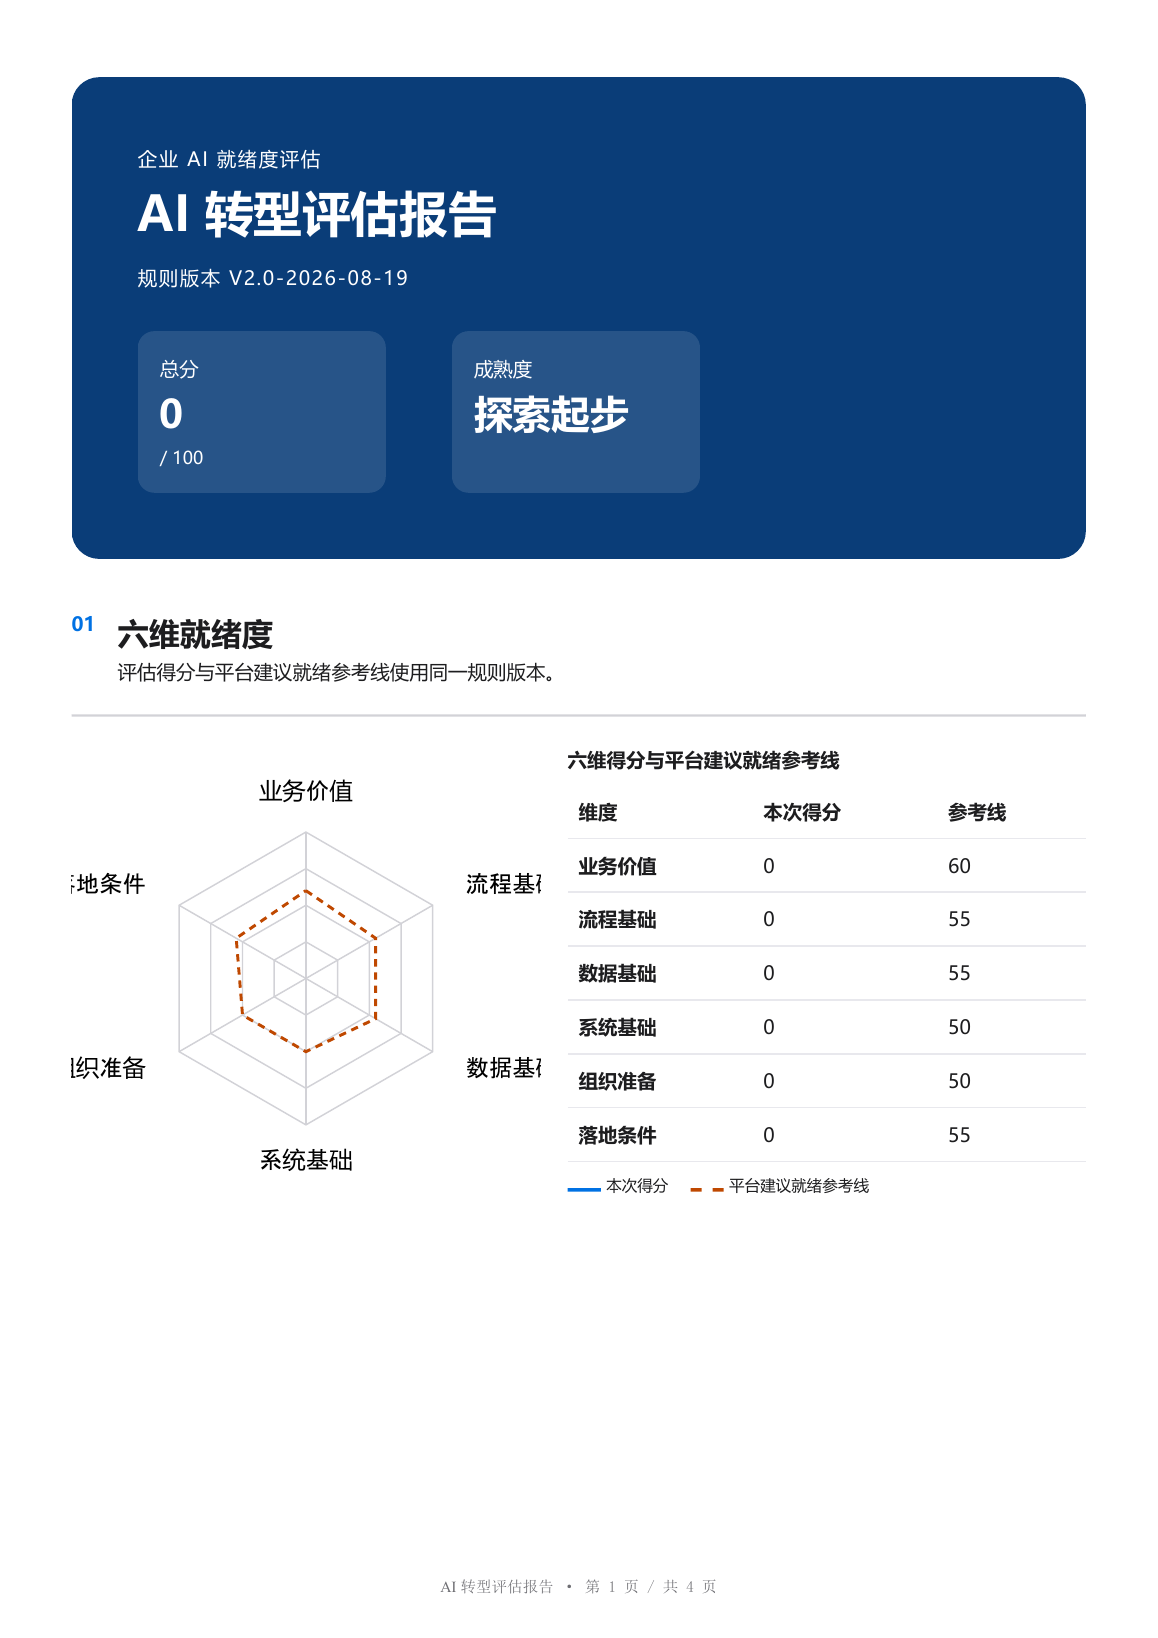
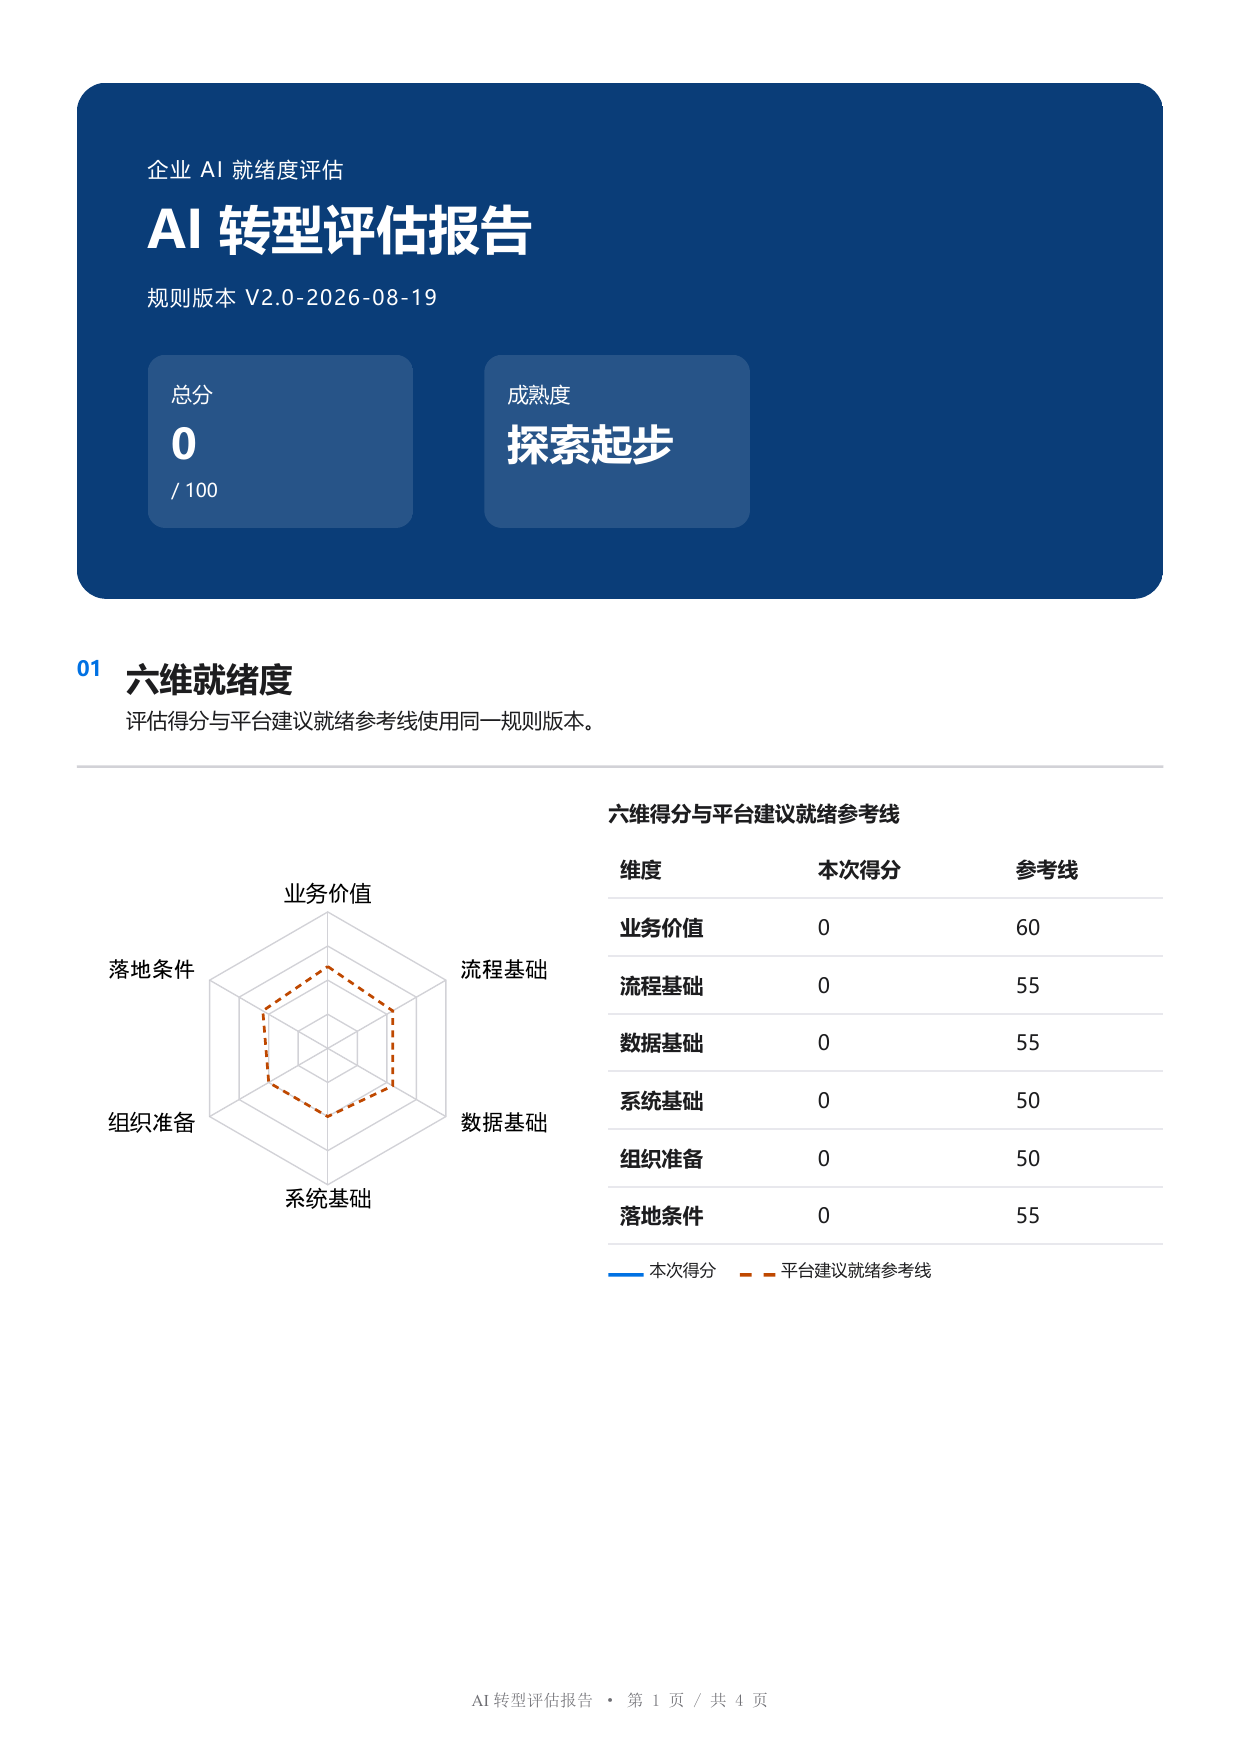
fix: preserve radar labels in native reports

diff --git a/templates/assessment/_report_content.html b/templates/assessment/_report_content.html
@@ -28,7 +28,7 @@
       </div>
     </div>
     <div class="score-layout">
-      <svg id="readiness-radar" class="radar-chart" viewBox="0 0 320 320" role="img" aria-labelledby="report-radar-title report-radar-desc">
+      <svg id="readiness-radar" class="radar-chart" viewBox="-24 -4 368 328" role="img" aria-labelledby="report-radar-title report-radar-desc">
         <title id="report-radar-title">六维 AI 就绪度雷达图</title>
         <desc id="report-radar-desc">蓝色区域表示本次评估得分，虚线表示平台建议就绪参考线。表格提供相同数据。</desc>
         {% for points in radar.grid %}

diff --git a/tests/test_report_access.py b/tests/test_report_access.py
@@ -663,12 +663,17 @@ def test_html_report_renders_every_required_snapshot_section(
         and axis.get("stroke-width") == "1"
         for axis in radar.select("line.radar-axis")
     )
+    view_x, _, view_width, _ = map(float, radar["viewbox"].split())
+    view_right = view_x + view_width
+    chinese_glyph_width = 16
     assert all(
-        float(label["x"]) >= 62
+        float(label["x"]) - len(label.get_text()) * chinese_glyph_width
+        >= view_x
         for label in radar.select('text[text-anchor="end"]')
     )
     assert all(
-        float(label["x"]) <= 258
+        float(label["x"]) + len(label.get_text()) * chinese_glyph_width
+        <= view_right
         for label in radar.select('text[text-anchor="start"]')
     )
     score_polygon = radar.select_one("polygon.radar-score")

diff --git a/docs/deployment/security-and-service.md b/docs/deployment/security-and-service.md
@@ -86,7 +86,7 @@ chown -R ai-platform:ai-platform /opt/ai-platform/data
 
 ```bash
 apt-get update
-apt-get install -y sqlite3 rsync curl \
+apt-get install -y sqlite3 rsync curl python3-venv \
   libpango-1.0-0 libharfbuzz0b libpangoft2-1.0-0 \
   libharfbuzz-subset0 fonts-noto-cjk
 python3 -m venv /opt/ai-platform/.venv
